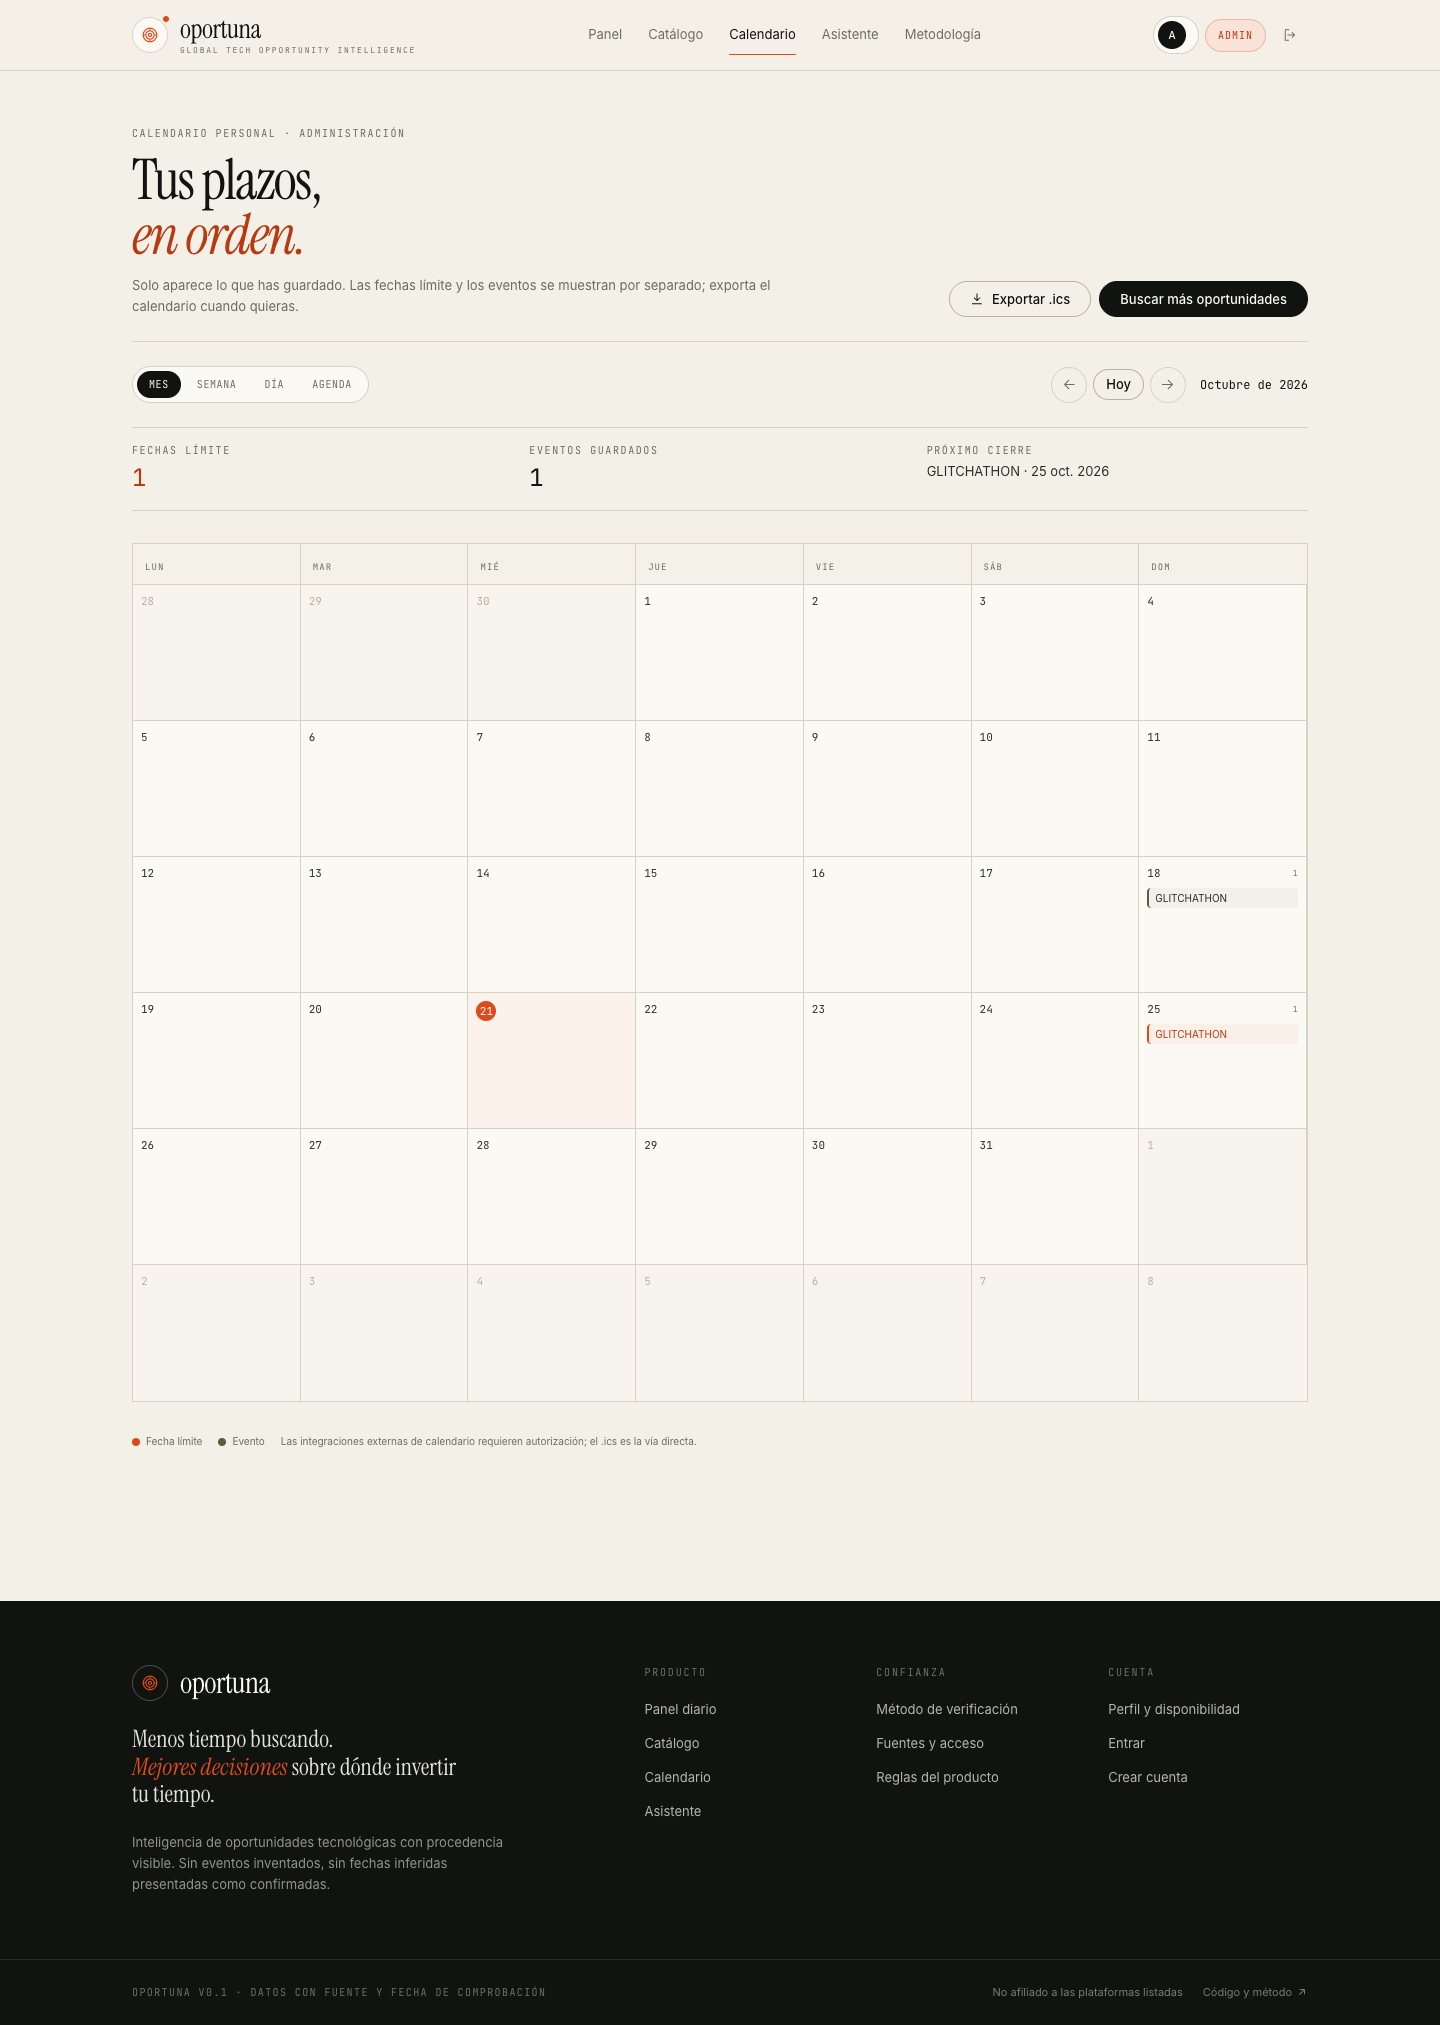
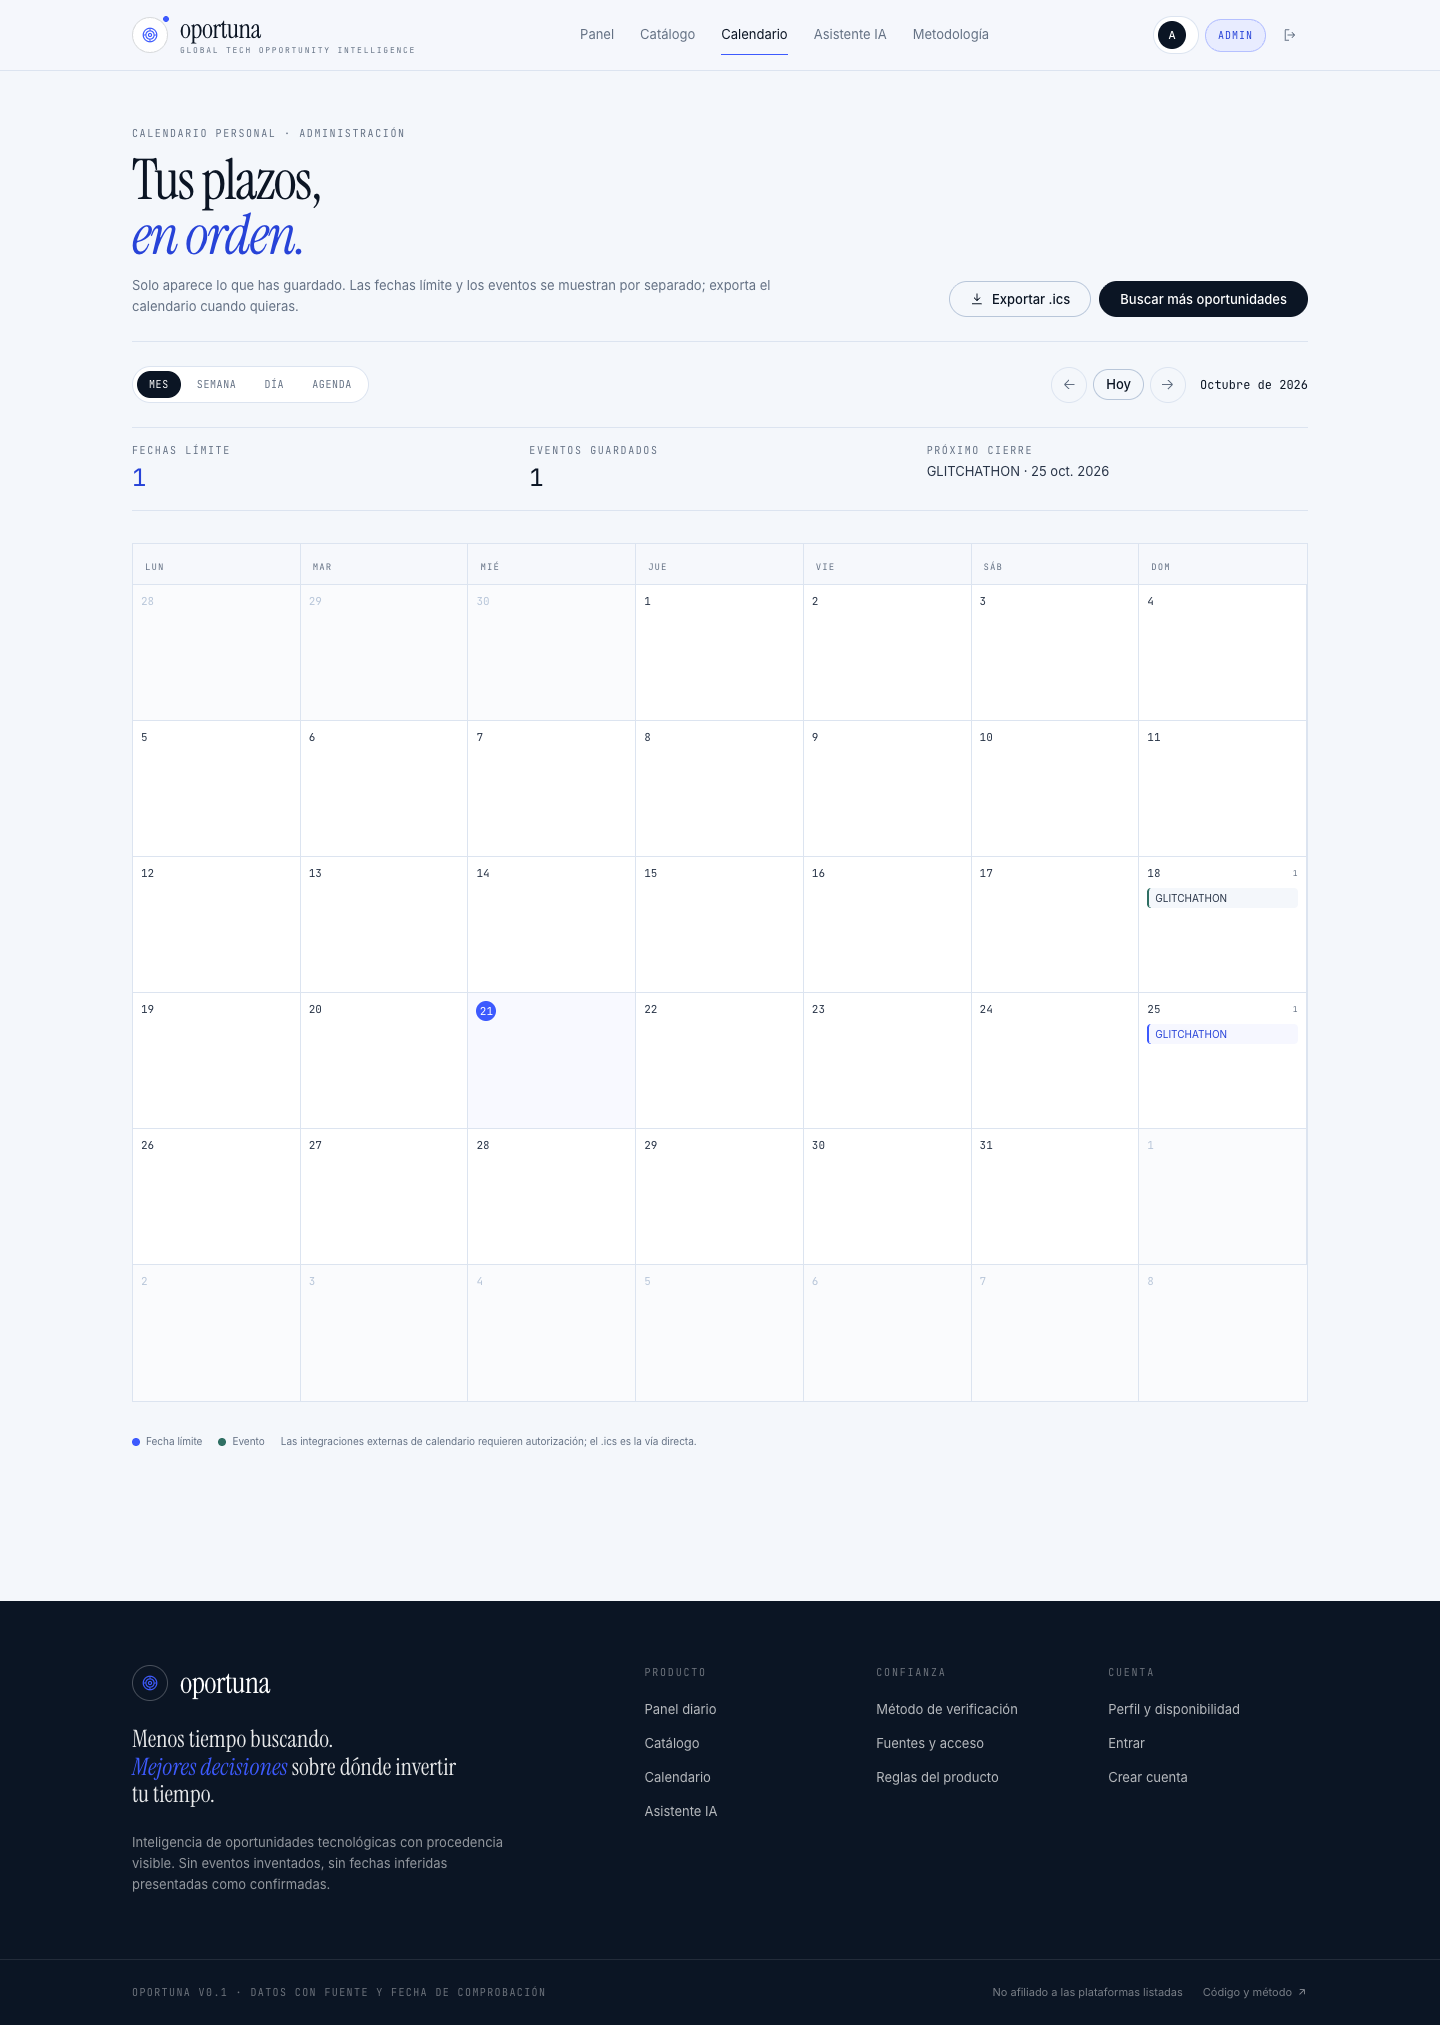
style(ui): nueva paleta azul, radar y capturas actualizadas

diff --git a/apps/web/src/components/radar-visual.tsx b/apps/web/src/components/radar-visual.tsx
@@ -12,14 +12,14 @@ export function RadarVisual({
   className?: string;
 }) {
   const blips = [
-    { x: 146, y: 128, r: 3.2, tone: "#df4a1a" },
-    { x: 268, y: 96, r: 2.4, tone: "#f3f0e7" },
-    { x: 302, y: 196, r: 3.8, tone: "#df4a1a" },
-    { x: 232, y: 268, r: 2.6, tone: "#7fb79c" },
-    { x: 118, y: 246, r: 2.2, tone: "#f3f0e7" },
-    { x: 196, y: 334, r: 2.8, tone: "#df4a1a" },
-    { x: 318, y: 288, r: 2.2, tone: "#7fb79c" },
-    { x: 164, y: 178, r: 1.8, tone: "#f3f0e7" },
+    { x: 146, y: 128, r: 3.2, tone: "#3d5afe" },
+    { x: 268, y: 96, r: 2.4, tone: "#f4f7fb" },
+    { x: 302, y: 196, r: 3.8, tone: "#3d5afe" },
+    { x: 232, y: 268, r: 2.6, tone: "#4fd1b5" },
+    { x: 118, y: 246, r: 2.2, tone: "#f4f7fb" },
+    { x: 196, y: 334, r: 2.8, tone: "#3d5afe" },
+    { x: 318, y: 288, r: 2.2, tone: "#4fd1b5" },
+    { x: 164, y: 178, r: 1.8, tone: "#f4f7fb" },
   ];
 
   return (
@@ -33,17 +33,17 @@ export function RadarVisual({
       <svg viewBox="0 0 400 400" className="relative block h-full w-full" role="img" aria-label="Radar esquemático de oportunidades">
         <defs>
           <radialGradient id="radar-glow" cx="50%" cy="50%" r="50%">
-            <stop offset="0%" stopColor="#df4a1a" stopOpacity="0.16" />
-            <stop offset="70%" stopColor="#df4a1a" stopOpacity="0.02" />
-            <stop offset="100%" stopColor="#df4a1a" stopOpacity="0" />
+            <stop offset="0%" stopColor="#3d5afe" stopOpacity="0.16" />
+            <stop offset="70%" stopColor="#3d5afe" stopOpacity="0.02" />
+            <stop offset="100%" stopColor="#3d5afe" stopOpacity="0" />
           </radialGradient>
           <linearGradient id="radar-sweep-fill" x1="0" y1="1" x2="1" y2="0">
-            <stop offset="0%" stopColor="#df4a1a" stopOpacity="0.34" />
-            <stop offset="100%" stopColor="#df4a1a" stopOpacity="0" />
+            <stop offset="0%" stopColor="#3d5afe" stopOpacity="0.34" />
+            <stop offset="100%" stopColor="#3d5afe" stopOpacity="0" />
           </linearGradient>
         </defs>
 
-        <rect width="400" height="400" fill="#101310" />
+        <rect width="400" height="400" fill="#0a1220" />
         <circle cx="200" cy="200" r="160" fill="url(#radar-glow)" />
 
         {[60, 105, 150, 195, 240].map((radius) => (
@@ -53,13 +53,13 @@ export function RadarVisual({
             cy="200"
             r={radius}
             fill="none"
-            stroke="#f3f0e7"
+            stroke="#f4f7fb"
             strokeOpacity={radius === 240 ? 0.18 : 0.11}
             strokeWidth="1"
           />
         ))}
 
-        <g stroke="#f3f0e7" strokeOpacity="0.1" strokeWidth="1">
+        <g stroke="#f4f7fb" strokeOpacity="0.1" strokeWidth="1">
           <path d="M200 5v390M5 200h390" />
           <path d="M60 60l280 280M340 60L60 340" strokeOpacity="0.05" />
         </g>
@@ -69,11 +69,11 @@ export function RadarVisual({
             d="M200 200 L200 5 A195 195 0 0 1 382 95 Z"
             fill="url(#radar-sweep-fill)"
           />
-          <path d="M200 200 L200 5" stroke="#df4a1a" strokeWidth="1.2" strokeOpacity="0.75" />
+          <path d="M200 200 L200 5" stroke="#3d5afe" strokeWidth="1.2" strokeOpacity="0.75" />
         </g>
 
-        <circle cx="200" cy="200" r="3" fill="#df4a1a" />
-        <circle cx="200" cy="200" r="8" fill="none" stroke="#df4a1a" strokeOpacity="0.4" />
+        <circle cx="200" cy="200" r="3" fill="#3d5afe" />
+        <circle cx="200" cy="200" r="8" fill="none" stroke="#3d5afe" strokeOpacity="0.4" />
 
         {blips.map((blip) => (
           <g key={`${blip.x}-${blip.y}`}>
@@ -82,14 +82,14 @@ export function RadarVisual({
           </g>
         ))}
 
-        <g fill="#f3f0e7" fillOpacity="0.4" fontSize="9" fontFamily="monospace" letterSpacing="2">
+        <g fill="#f4f7fb" fillOpacity="0.4" fontSize="9" fontFamily="monospace" letterSpacing="2">
           <text x="196" y="20">N</text>
           <text x="380" y="204">E</text>
           <text x="196" y="390">S</text>
           <text x="12" y="204">O</text>
         </g>
 
-        <g stroke="#f3f0e7" strokeOpacity="0.25" strokeWidth="1">
+        <g stroke="#f4f7fb" strokeOpacity="0.25" strokeWidth="1">
           <path d="M20 20h12M20 20v12M380 20h-12M380 20v12M20 380h12M20 380v-12M380 380h-12M380 380v-12" />
         </g>
       </svg>

diff --git a/apps/web/src/app/globals.css b/apps/web/src/app/globals.css
@@ -1,24 +1,24 @@
 @import "tailwindcss";
 
 @theme {
-  --color-paper: #f3f0e7;
-  --color-paper-raised: #fbf9f3;
-  --color-paper-deep: #e9e4d7;
-  --color-ink: #111310;
-  --color-ink-soft: #2c2f28;
-  --color-muted: #6a6d62;
-  --color-line: #d8d2c3;
-  --color-line-strong: #b9b2a0;
-  --color-signal: #df4a1a;
-  --color-signal-deep: #b93a12;
-  --color-signal-soft: #f9e3d8;
-  --color-fern: #1c6a4d;
-  --color-fern-soft: #e0ede4;
-  --color-amber: #8d6412;
-  --color-amber-soft: #f6ecd3;
-  --color-brick: #a32c25;
-  --color-brick-soft: #f7e1dd;
-  --color-moss: #55613c;
+  --color-paper: #f4f7fb;
+  --color-paper-raised: #ffffff;
+  --color-paper-deep: #e8eef7;
+  --color-ink: #0b1524;
+  --color-ink-soft: #293548;
+  --color-muted: #647184;
+  --color-line: #dce4f0;
+  --color-line-strong: #b8c6d9;
+  --color-signal: #3d5afe;
+  --color-signal-deep: #2743d8;
+  --color-signal-soft: #e8ecff;
+  --color-fern: #0b7a53;
+  --color-fern-soft: #e0f5eb;
+  --color-amber: #a15c00;
+  --color-amber-soft: #fff1d9;
+  --color-brick: #b42318;
+  --color-brick-soft: #fce7e4;
+  --color-moss: #2f6f63;
 
   --font-sans: var(--font-inter), ui-sans-serif, system-ui, sans-serif;
   --font-display: var(--font-instrument), ui-serif, Georgia, "Times New Roman", serif;

diff --git a/apps/web/src/components/site-header.tsx b/apps/web/src/components/site-header.tsx
@@ -9,7 +9,7 @@ const NAV_ITEMS = [
   { href: "/", label: "Panel" },
   { href: "/oportunidades", label: "Catálogo" },
   { href: "/calendario", label: "Calendario" },
-  { href: "/asistente", label: "Asistente" },
+  { href: "/asistente", label: "Asistente IA" },
   { href: "/metodologia", label: "Metodología" },
 ];
 

diff --git a/apps/web/src/components/site-footer.tsx b/apps/web/src/components/site-footer.tsx
@@ -9,7 +9,7 @@ const COLUMNS = [
       { href: "/", label: "Panel diario" },
       { href: "/oportunidades", label: "Catálogo" },
       { href: "/calendario", label: "Calendario" },
-      { href: "/asistente", label: "Asistente" },
+      { href: "/asistente", label: "Asistente IA" },
     ],
   },
   {

diff --git a/apps/web/src/app/layout.tsx b/apps/web/src/app/layout.tsx
@@ -62,7 +62,7 @@ export const metadata: Metadata = {
 };
 
 export const viewport: Viewport = {
-  themeColor: "#f3f0e7",
+  themeColor: "#f4f7fb",
   width: "device-width",
   initialScale: 1,
 };

diff --git a/README.md b/README.md
@@ -37,7 +37,7 @@ Estas decisiones están implementadas en código, no solo documentadas:
 | Ficha con fechas separadas, requisitos, premios, procedencia, historial y siguientes pasos | ✅ |
 | Perfil progresivo, disponibilidad y ranking personalizado con motivos | ✅ |
 | Guardadas, seguimiento, feedback de utilidad, calendario y exportación `.ics` | ✅ |
-| Asistente determinista sobre el catálogo verificado, con citas | ✅ |
+| Asistente con IA local (Ollama) sobre el catálogo verificado, con citas | ✅ |
 | Automatización con worker + scheduler y alertas de cierre | ✅ |
 | Panel de administración con fuentes, revisión, duplicados, métricas y auditoría | ✅ |
 | Docker Compose con Postgres, Redis, API, worker, scheduler, web y nginx | 🟡 Config validada; build de imágenes no completado en este entorno |
@@ -57,9 +57,22 @@ No hay datos de demostración presentados como reales. Si el catálogo está vac
 
 ![Ficha con procedencia y verificación](docs/screenshots/ficha.png)
 
+![Asistente con IA local](docs/screenshots/asistente-ia.png)
+
 ![Consola de administración](docs/screenshots/admin.png)
 
 ![Calendario personal](docs/screenshots/calendario.png)
+
+## IA local
+
+Oportuna usa **Ollama en tu equipo** (`gemma4:12b-q4` + `nomic-embed-text`). El asistente consulta el catálogo publicado, añade búsqueda semántica cuando hace falta, construye un contexto numerado y exige citas. Si el modelo falla, responde con reglas y lo indica.
+
+```bash
+ollama list
+curl -s http://127.0.0.1:8000/api/assistant/status
+```
+
+Configuración y límites en [`docs/AI-LOCAL.md`](docs/AI-LOCAL.md).
 
 ## Arquitectura
 
@@ -322,4 +335,5 @@ Ver [`docs/BACKLOG.md`](docs/BACKLOG.md) para el estado épica por épica y lo q
 - [`docs/RANKING.md`](docs/RANKING.md) — fórmula, elegibilidad y diversidad.
 - [`docs/RUNBOOK.md`](docs/RUNBOOK.md) — operación, incidencias y despliegue.
 - [`docs/BACKLOG.md`](docs/BACKLOG.md) — épicas y estado real.
+- [`docs/AI-LOCAL.md`](docs/AI-LOCAL.md) — IA local, privacidad, prompts y rendimiento.
 - [`docs/GAPS.md`](docs/GAPS.md) — qué falta para operar en producción y qué depende de terceros.
